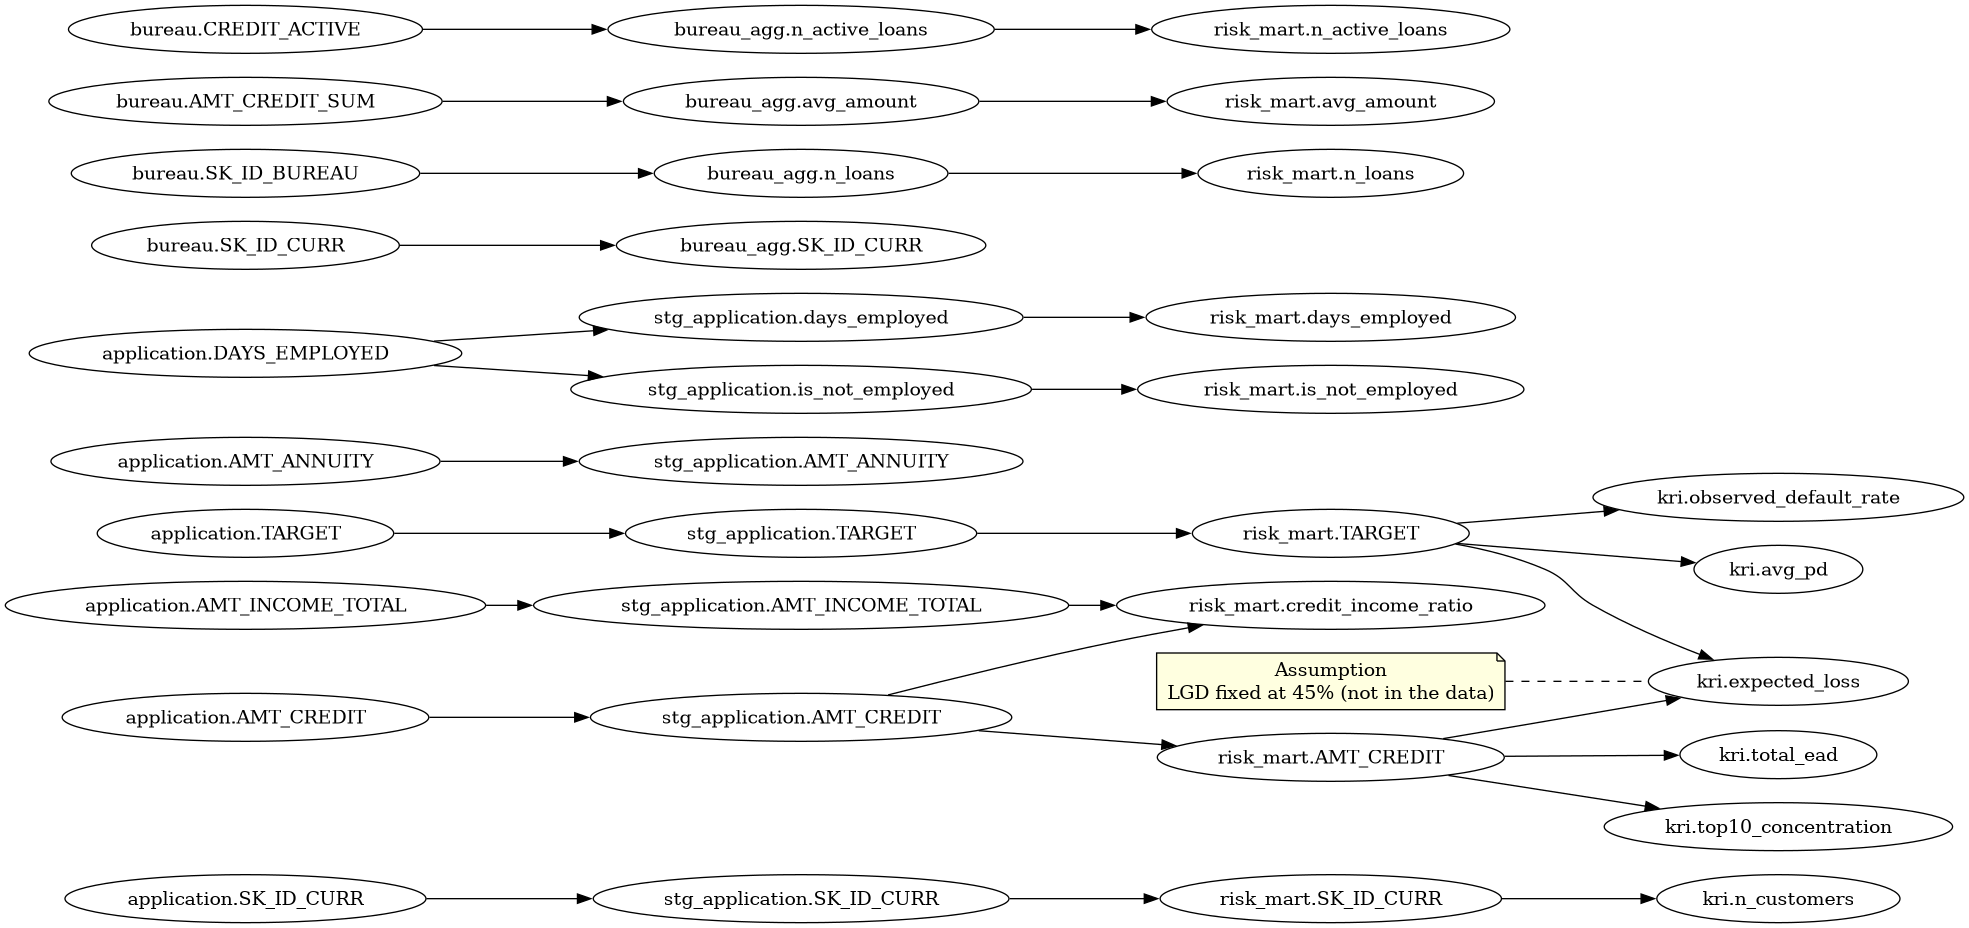
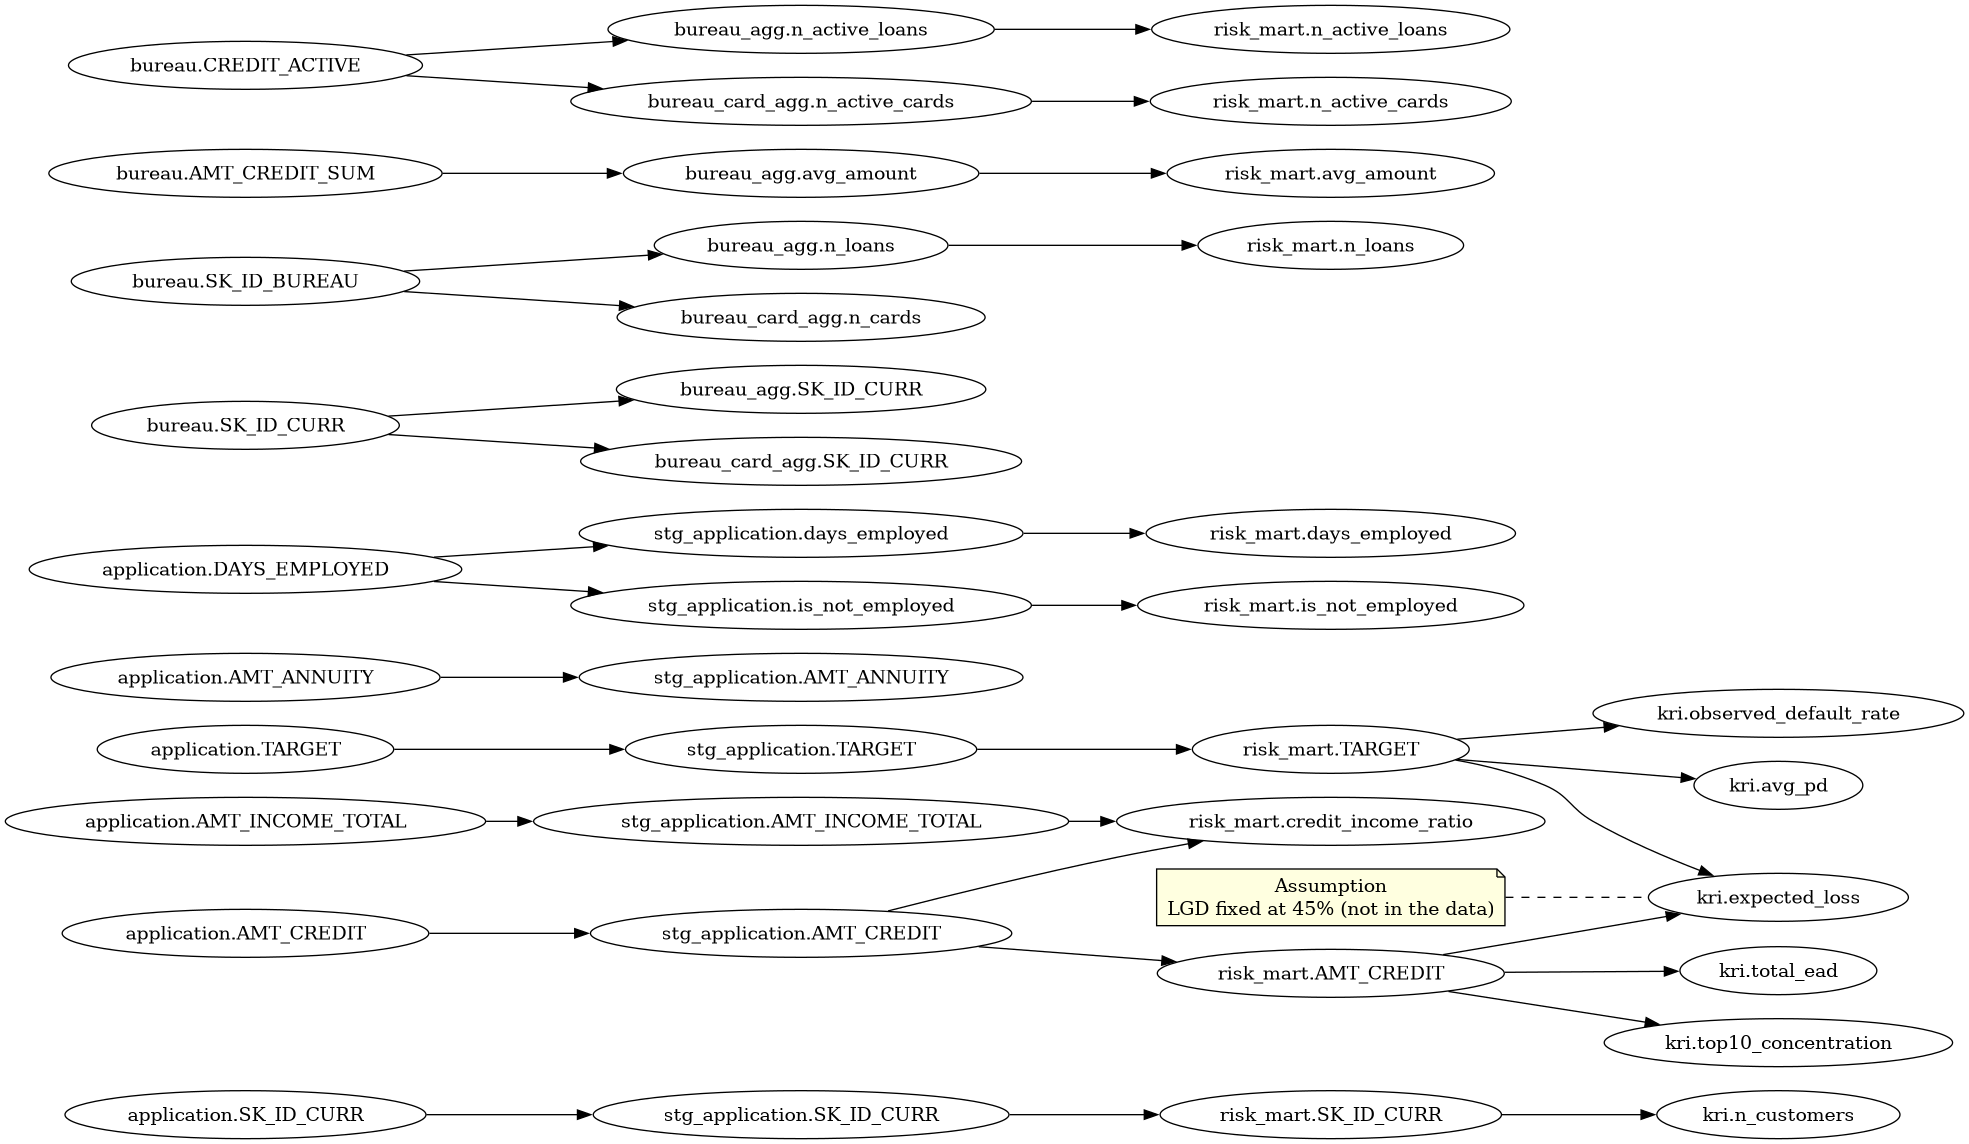
Add bureau_card_agg and risk_mart.n_active_cards, so the card count stays available as its own risk signal without mixing into n_active_loans

diff --git a/lineage/lineage.py b/lineage/lineage.py
@@ -43,12 +43,19 @@ LINEAGE = [
     ("bureau.CREDIT_ACTIVE", "bureau_agg.n_active_loans",
      "SUM(CASE WHEN CREDIT_ACTIVE = 'Active' THEN 1 ELSE 0 END), credit cards excluded"),
 
+    # risk_dbt/models/bureau_card_agg.sql (credit cards only, the complement of bureau_agg)
+    ("bureau.SK_ID_CURR", "bureau_card_agg.SK_ID_CURR", "GROUP BY key"),
+    ("bureau.SK_ID_BUREAU", "bureau_card_agg.n_cards", "COUNT(*) per SK_ID_CURR, credit cards only"),
+    ("bureau.CREDIT_ACTIVE", "bureau_card_agg.n_active_cards",
+     "SUM(CASE WHEN CREDIT_ACTIVE = 'Active' THEN 1 ELSE 0 END), credit cards only"),
+
     # risk_dbt/models/risk_mart.sql
     ("stg_application.SK_ID_CURR", "risk_mart.SK_ID_CURR", "pass-through (LEFT JOIN key)"),
     ("stg_application.TARGET", "risk_mart.TARGET", "pass-through"),
     ("bureau_agg.n_loans", "risk_mart.n_loans", "COALESCE(n_loans, 0)"),
     ("bureau_agg.avg_amount", "risk_mart.avg_amount", "pass-through (NULL without bureau history)"),
     ("bureau_agg.n_active_loans", "risk_mart.n_active_loans", "COALESCE(n_active_loans, 0)"),
+    ("bureau_card_agg.n_active_cards", "risk_mart.n_active_cards", "COALESCE(n_active_cards, 0)"),
     ("stg_application.AMT_CREDIT", "risk_mart.credit_income_ratio",
      "AMT_CREDIT / NULLIF(AMT_INCOME_TOTAL, 0)"),
     ("stg_application.AMT_INCOME_TOTAL", "risk_mart.credit_income_ratio",
@@ -71,7 +78,7 @@ LINEAGE = [
 
 # COUNT(*) columns have no input column for sqlglot to find, so their
 # documented edge is accepted as long as the SQL still counts rows.
-ROW_COUNT_COLUMNS = {"bureau_agg.n_loans", "kri.n_customers"}
+ROW_COUNT_COLUMNS = {"bureau_agg.n_loans", "bureau_card_agg.n_cards", "kri.n_customers"}
 # Columns with an input that is a fixed assumption rather than a table column,
 # mapped to a description of that assumption. The check accepts the input
 # sqlglot cannot trace, and draw_lineage() shows the description as a note on

diff --git a/tests/test_lineage.py b/tests/test_lineage.py
@@ -9,7 +9,7 @@ from credit_risk.config import config
 from sample_data import create_sample_db
 
 MODELS_DIR = config.PROJECT_ROOT / "risk_dbt" / "models"
-MODEL_ORDER = ["stg_application", "bureau_agg", "risk_mart", "kri"]  # build order
+MODEL_ORDER = ["stg_application", "bureau_agg", "bureau_card_agg", "risk_mart", "kri"]  # build order
 SOURCES = {"application", "bureau"}
 
 # {{ source('raw', 'x') }} / {{ ref('x') }}

diff --git a/README.md b/README.md
@@ -57,7 +57,7 @@ uv run python lineage/lineage.py
 |---|---|
 | `ingest.py` | Downloads the competition files with `kagglehub` and loads `application_train.csv` → `application` and `bureau.csv` → `bureau` into `risk.duckdb` (`CREATE OR REPLACE`, so it is safe to re-run). |
 | `dbt deps` | Installs `dbt_utils` (pinned in `risk_dbt/package-lock.yml`). Needed once per checkout. |
-| `dbt build` | Builds `stg_application`, `bureau_agg`, `risk_mart` and `kri` and runs every data test. Must be run from `risk_dbt/`, because `profiles.yml` points to `../risk.duckdb`. |
+| `dbt build` | Builds `stg_application`, `bureau_agg`, `bureau_card_agg`, `risk_mart` and `kri` and runs every data test. Must be run from `risk_dbt/`, because `profiles.yml` points to `../risk.duckdb`. |
 | `explore.py` | Prints the exploratory questions below. Opens the database read-only. |
 | `findings.py` | Two findings about `n_active_loans`, the PD segment key in `kri`: splits its 0 segment by bureau history and compares the default rates (95% CI, two-proportion z-test), then shows that column lineage misses it as a PD input. Reads the manifest, so run it after `dbt build`. Opens the database read-only. |
 | `lineage/lineage.py` | Checks the documented column-level lineage against the latest `dbt build` (exit code 1 on mismatch), then redraws `outputs/lineage.png` and `outputs/lineage.svg`. Reads `risk_dbt/target/manifest.json`, so run it after `dbt build`. |
@@ -79,10 +79,12 @@ CreditRisk/
 │   │   ├── sources.yml         # raw.application, raw.bureau
 │   │   ├── stg_application.sql # application columns in use, DAYS_EMPLOYED cleaned
 │   │   ├── bureau_agg.sql      # non-card bureau loans aggregated per applicant
+│   │   ├── bureau_card_agg.sql # bureau credit cards counted per applicant
 │   │   ├── risk_mart.sql       # one row per applicant, enriched with bureau history
 │   │   ├── kri.sql             # portfolio key risk indicators (PD, EAD, EL, concentration)
 │   │   └── schema.yml          # column docs + generic tests
 │   └── tests/                  # singular tests
+│       ├── assert_bureau_split_reconciles.sql
 │       ├── assert_no_1000_years_employed.sql
 │       ├── assert_pd_reconciles.sql
 │       └── assert_row_count_matches.sql
@@ -130,8 +132,10 @@ flowchart LR
     bureau_csv[bureau.csv] -->|ingest.py| bureau[(bureau)]
     application --> stg_application[stg_application]
     bureau --> bureau_agg[bureau_agg]
+    bureau --> bureau_card_agg[bureau_card_agg]
     stg_application --> risk_mart[risk_mart]
     bureau_agg --> risk_mart
+    bureau_card_agg --> risk_mart
     risk_mart --> kri[kri]
     application --> explore([explore.py])
     bureau --> explore
@@ -170,7 +174,8 @@ Notes:
 - Identifiers are compared case-insensitively, like DuckDB, because sqlglot
   lowercases unquoted names.
 - A `COUNT(*)` has no input column for sqlglot to find. Such columns are listed
-  in `ROW_COUNT_COLUMNS` (`bureau_agg.n_loans`, `kri.n_customers`), and their
+  in `ROW_COUNT_COLUMNS` (`bureau_agg.n_loans`, `bureau_card_agg.n_cards`,
+  `kri.n_customers`), and their
   documented edge is accepted while the SQL still counts rows.
 - A fixed assumption in the SQL has no input column either. Such columns are
   listed in `ASSUMPTION_COLUMNS` with a description of the assumption
@@ -182,8 +187,9 @@ Notes:
   `risk_mart.n_active_loans` and `impact('risk_mart.n_active_loans')` is
   empty. Changing only the grouping still moves expected loss (-0.38% when the
   0 segment is split at `n_loans = 0`). `findings.py` shows both. The same
-  holds for a WHERE filter: `bureau_agg` reads `bureau.CREDIT_TYPE` only to
-  drop credit cards, so that column has no edge either.
+  holds for a WHERE filter: `bureau_agg` and `bureau_card_agg` read
+  `bureau.CREDIT_TYPE` only to split loans from credit cards, so that column
+  has no edge either.
 - The checks verify which columns are connected, not the transformation text.
   Review that against the SQL by hand.
 
@@ -198,10 +204,11 @@ All data quality checks live in dbt and run with `dbt build`.
 
 | Test | Where | Checks |
 |---|---|---|
-| `unique`, `not_null` on `stg_application.SK_ID_CURR` and `risk_mart.SK_ID_CURR` | `schema.yml` | One row per applicant |
+| `unique`, `not_null` on `stg_application.SK_ID_CURR`, `bureau_card_agg.SK_ID_CURR` and `risk_mart.SK_ID_CURR` | `schema.yml` | One row per applicant |
 | `not_null`, `dbt_utils.expression_is_true "> 0"` on `stg_application.AMT_INCOME_TOTAL` | `schema.yml` | Positive income |
 | `not_null`, `accepted_values [0, 1]` on `risk_mart.TARGET` | `schema.yml` | Valid label |
-| `not_null` on `risk_mart.n_loans`, `n_active_loans`, `is_not_employed`, `credit_income_ratio` | `schema.yml` | Missing bureau data is filled, ratio is always defined |
+| `not_null` on `risk_mart.n_loans`, `n_active_loans`, `n_active_cards`, `is_not_employed`, `credit_income_ratio` | `schema.yml` | Missing bureau data is filled, ratio is always defined |
+| `assert_bureau_split_reconciles` | `risk_dbt/tests/` | `bureau_agg` (non-card loans) and `bureau_card_agg` (credit cards) count every bureau row exactly once |
 | `assert_no_1000_years_employed` | `risk_dbt/tests/` | The `365243` placeholder never reaches `risk_mart.days_employed` |
 | `assert_row_count_matches` | `risk_dbt/tests/` | The `LEFT JOIN` neither adds nor drops applicants |
 | `not_null` on every `kri` column; `accepted_range [0, 1]` on `observed_default_rate`, `top10_concentration`; `> 0` / `>= 0` on `n_customers`, `total_ead`, `expected_loss`; `expected_loss <= total_ead` | `schema.yml` | KRIs are defined and in a plausible range |
@@ -305,8 +312,14 @@ Income is complete and positive in the raw data (minimum 25,650, no NULLs), so
   active bureau loans, so `n_active_loans` largely counted cards, and their
   `AMT_CREDIT_SUM` has no consistent meaning (0 for 36,295 of 285,998 active
   cards, equal to the card limit for only 17,170). `bureau_agg` therefore
-  counts and averages non-card loans only. Revolving loans applied for at
-  Home Credit (`application.NAME_CONTRACT_TYPE`) stay in the portfolio.
+  counts and averages non-card loans only, and `bureau_card_agg` counts the
+  cards, which reach `risk_mart` as their own column `n_active_cards` (counts
+  only, no amounts). The card count is a risk signal of its own: among
+  applicants with a bureau record, the default rate rises from 5.7% with no
+  active card to 8.7% with three or more for those with no active loan, and
+  from 8.3% to 15.3% for those with three or more. `kri` does not use it.
+  Revolving loans applied for at Home Credit (`application.NAME_CONTRACT_TYPE`)
+  stay in the portfolio.
 - **Column lineage is written by hand, then verified by machine.** Lineage
   generated from the SQL would faithfully copy any mistake in the SQL. A
   hand-written `LINEAGE` states the intended data flow, and sqlglot proves
